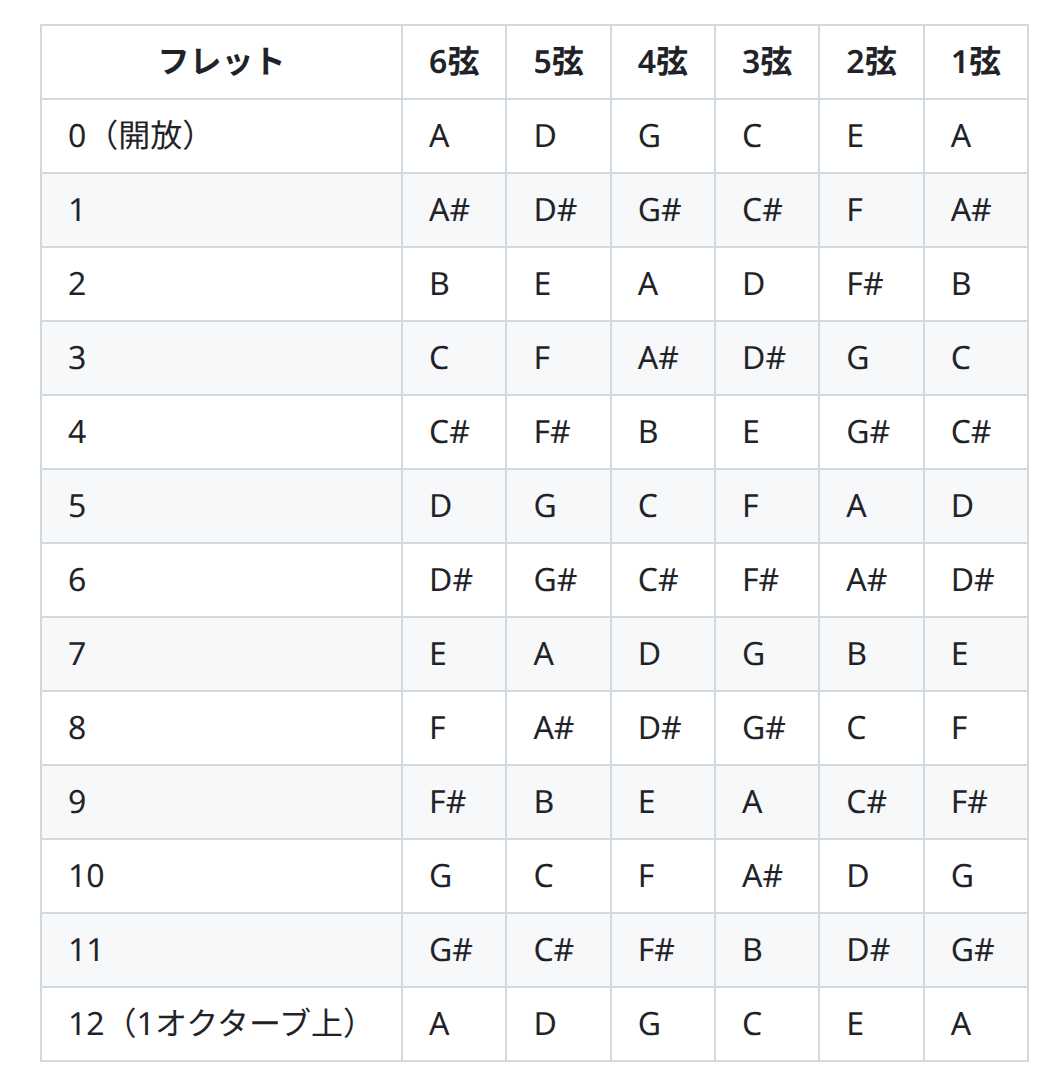
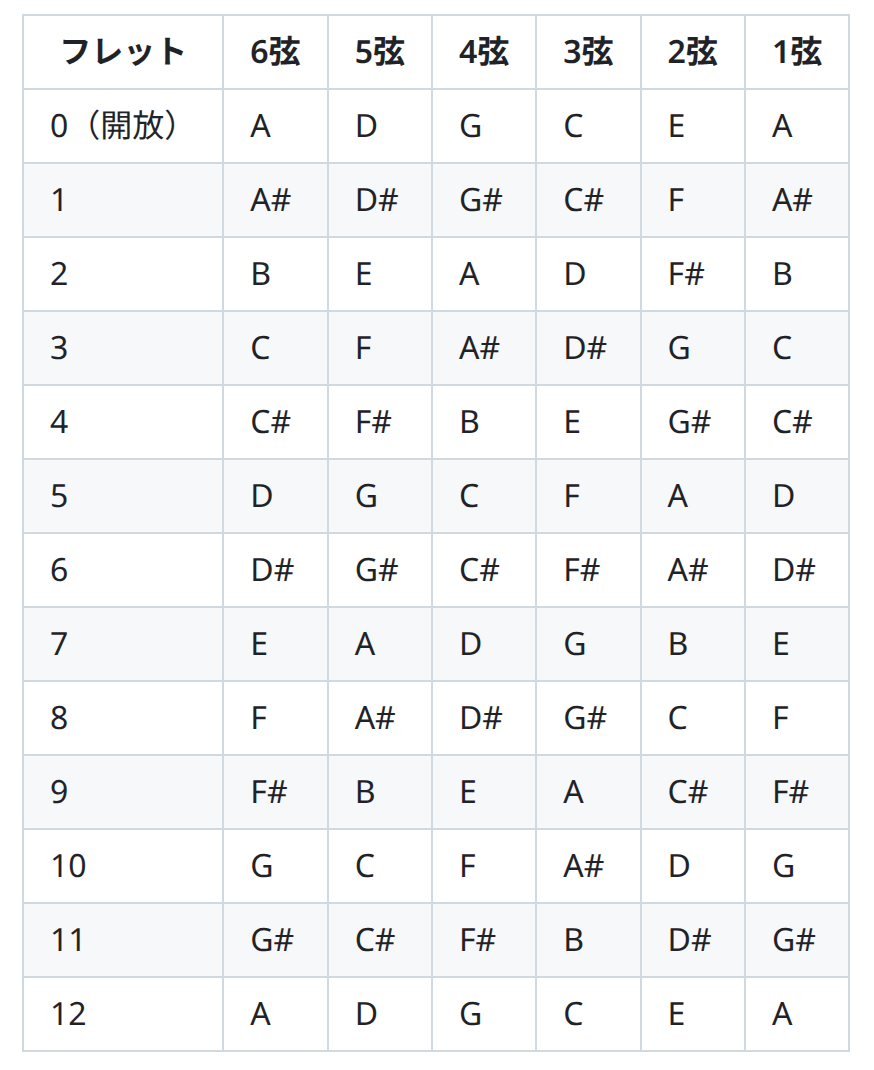
はやみひょう２

diff --git a/4_フレット早見表.md b/4_フレット早見表.md
@@ -13,7 +13,7 @@
 
 | フレット | 6弦 | 5弦 | 4弦 | 3弦 | 2弦 | 1弦 |
 |---|---|---|---|---|---|---|
-| 0（開放） | A | D | G | C | E | A |
+| 0 | A | D | G | C | E | A |
 | 1 | A# | D# | G# | C# | F | A# |
 | 2 | B | E | A | D | F# | B |
 | 3 | C | F | A# | D# | G | C |
